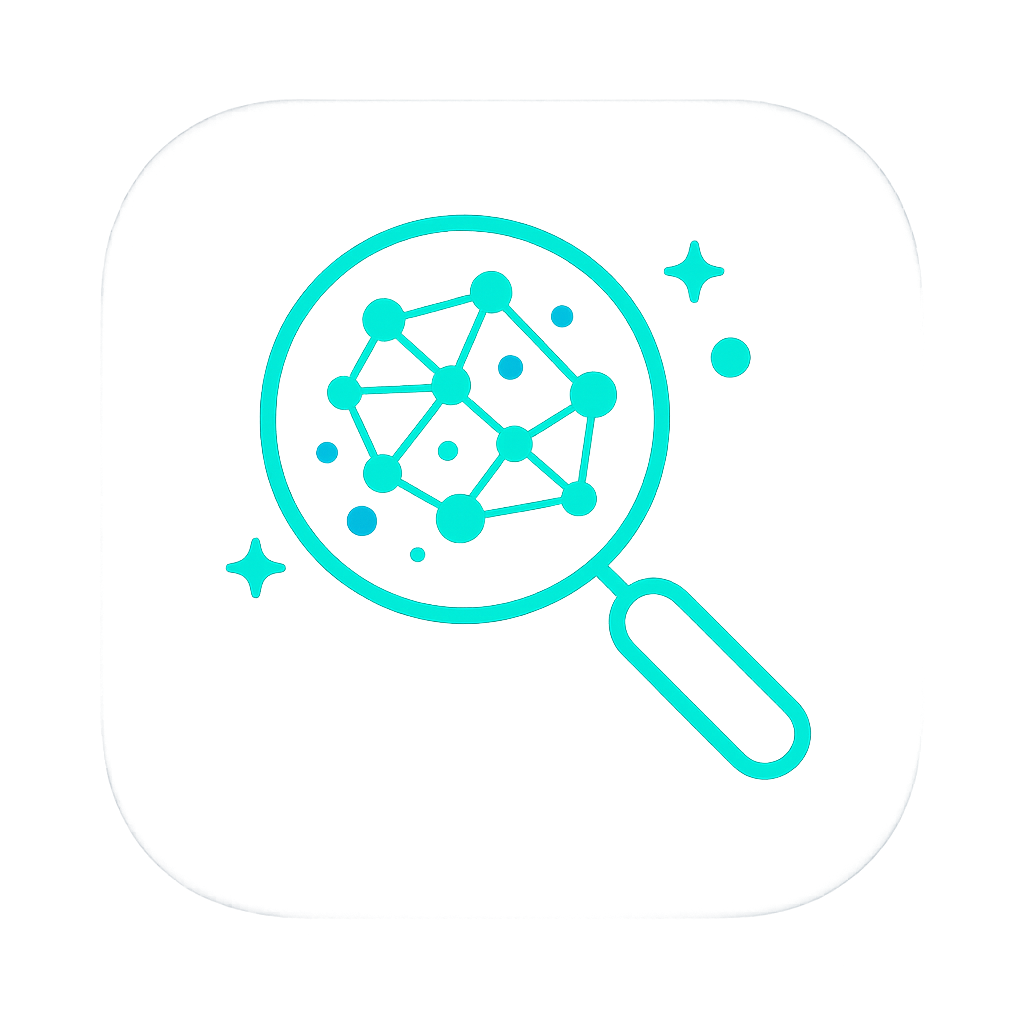
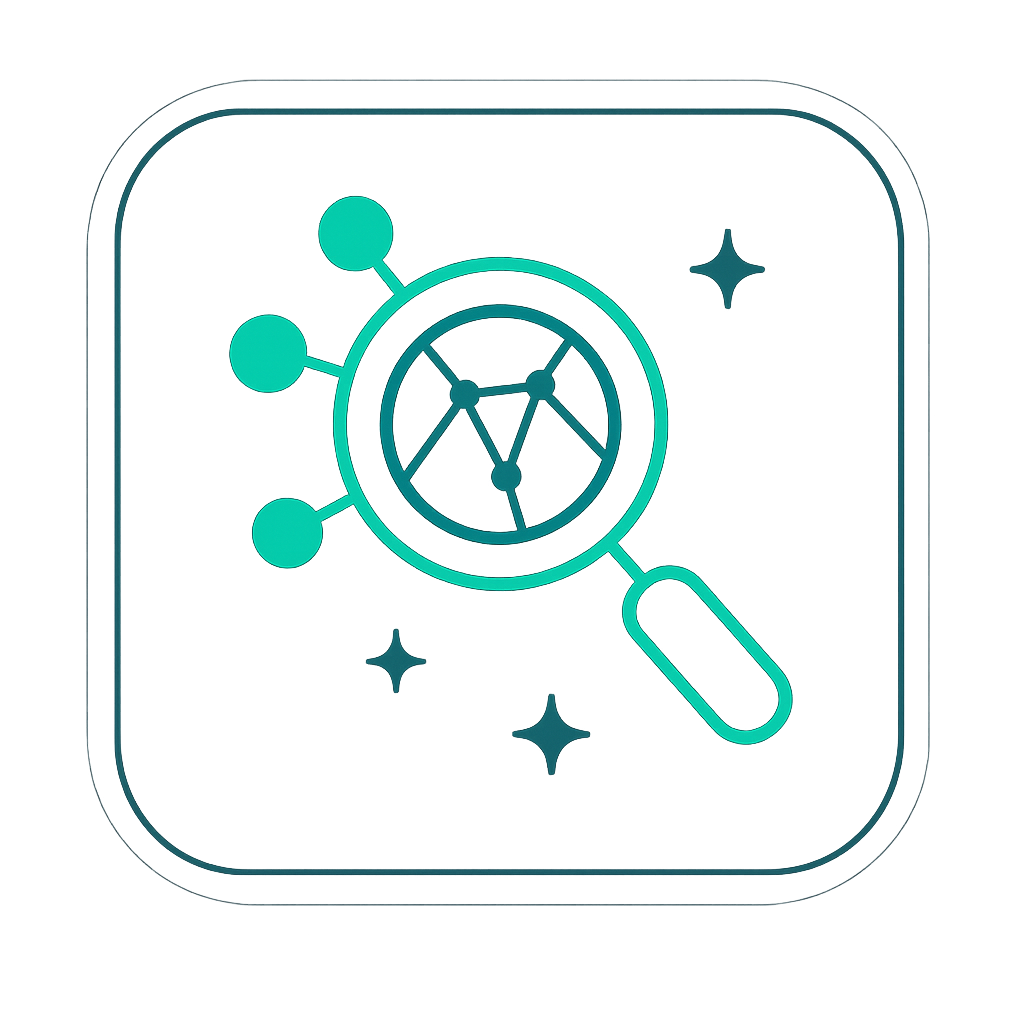
Rebuild brand mark from the canonical reference design
The previous marks kept missing the actual design. Rebuilt from the user's
reference masters:

THE CANONICAL DESIGN (now implemented everywhere)
- Double-orbit lens: thin emerald outer ring + thin navy inner ring with a
  rotation gap (two orbits, not one circle)
- Inner mesh: a few small nodes connected by thin lines INSIDE the lens
- Outrider nodes: BIG bright-green nodes OUTSIDE the lens on short stems
  radiating from it (the feature I kept missing)
- Hollow elongated capsule handle with a BIG node at its tip
- Four-point sparkles + dust around the constellation
- Two-tone: emerald #10d48e + navy #0b3d91/#3f7bdc on night navy #070b1a

ASSETS
- brand/icon.svg + brand/logo.svg: full organic constellation masters
- favicon.svg + LogoMark.tsx: same design language, size-tuned (fewer,
  bigger nodes) so it reads at 24–32px; LogoMark still follows the accent
- og.jpg + brand/icon-1024.png: regenerated with the canonical spec

Blossom: icon 60998826…, logo ea4b3532… (ditto.pub)

diff --git a/src/components/LogoMark.tsx b/src/components/LogoMark.tsx
@@ -3,13 +3,15 @@ import { cn } from '@/lib/utils';
 /**
  * Dsearch logo mark — the constellation magnifier, inline SVG.
  *
- * Hand-tuned for small sizes (24–64px): the organic mesh is simplified to a
- * bold, well-spaced web of nodes drawn in `currentColor` (= --primary = the
- * user's accent), the deep node accents in dimmed currentColor, so the mark
- * follows the accent picker and theme. The night-navy tile stays constant.
+ * Design language (matches public/brand/icon.svg): a magnifying glass whose
+ * double-orbit lens holds a node mesh, with outrider nodes on stems, a hollow
+ * outlined handle, and a node at its tip. Everything draws in `currentColor`
+ * (= --primary = the user's accent), deep accents in dimmed currentColor, so
+ * the mark follows the accent picker and theme. The night-navy tile stays
+ * constant across themes.
  *
- * Matches public/brand/icon.svg in design language; static files carry the
- * full organic constellation.
+ * Tuned for 24–64px: fewer, bigger nodes than the static masters, which carry
+ * the full organic constellation.
  */
 export function LogoMark({ className }: { className?: string }) {
   return (
@@ -21,38 +23,52 @@ export function LogoMark({ className }: { className?: string }) {
     >
       {/* Icon tile: night-navy rounded square (constant across themes) */}
       <rect width="32" height="32" rx="8" fill="#070b1a" />
-      <rect x="1" y="1" width="30" height="30" rx="7" stroke="currentColor" strokeOpacity="0.35" strokeWidth="0.5" />
+      <rect x="1" y="1" width="30" height="30" rx="7" stroke="currentColor" strokeOpacity="0.3" strokeWidth="0.5" />
 
-      {/* The index inside the lens: an organic node web (bold, readable) */}
-      <g stroke="currentColor" strokeOpacity="0.55" strokeWidth="0.6">
-        <line x1="12.6" y1="12.6" x2="8.4" y2="10.6" />
-        <line x1="12.6" y1="12.6" x2="16.6" y2="9" />
-        <line x1="12.6" y1="12.6" x2="17" y2="15.2" />
-        <line x1="12.6" y1="12.6" x2="9.2" y2="16.4" />
-        <line x1="12.6" y1="12.6" x2="14.4" y2="17.2" />
-        <line x1="8.4" y1="10.6" x2="16.6" y2="9" />
-        <line x1="16.6" y1="9" x2="17" y2="15.2" />
-        <line x1="17" y1="15.2" x2="14.4" y2="17.2" />
-        <line x1="9.2" y1="16.4" x2="14.4" y2="17.2" />
-        <line x1="8.4" y1="10.6" x2="9.2" y2="16.4" />
+      {/* Orbit rings: outer solid, inner dashed with a gap */}
+      <circle cx="13" cy="13" r="8.1" stroke="currentColor" strokeOpacity="0.85" strokeWidth="1.1" />
+      <circle cx="13" cy="13" r="6.5" stroke="currentColor" strokeOpacity="0.55" strokeWidth="0.7" strokeDasharray="29 12" strokeLinecap="round" transform="rotate(110 13 13)" />
+
+      {/* Outrider stems */}
+      <g stroke="currentColor" strokeOpacity="0.5" strokeWidth="0.55">
+        <line x1="10.2" y1="9.8" x2="7.2" y2="6.8" />
+        <line x1="15.8" y1="9.8" x2="18.8" y2="6.8" />
+        <line x1="9.2" y1="16.6" x2="6.4" y2="19.4" />
       </g>
-      {/* nodes: varying sizes, two-tone (accent + dimmed accent) */}
-      <circle cx="12.6" cy="12.6" r="1.2" fill="currentColor" />
-      <circle cx="8.4" cy="10.6" r="1.35" fill="currentColor" />
-      <circle cx="16.6" cy="9" r="1" fill="currentColor" fillOpacity="0.5" />
-      <circle cx="17" cy="15.2" r="0.9" fill="currentColor" />
-      <circle cx="9.2" cy="16.4" r="1.05" fill="currentColor" fillOpacity="0.5" />
-      <circle cx="14.4" cy="17.2" r="0.8" fill="currentColor" />
-      {/* outrider + sparkles */}
-      <circle cx="19.4" cy="6.6" r="0.85" fill="currentColor" fillOpacity="0.5" />
-      <path d="M7 6.2 l0.5 1.1 1.1 0.5 -1.1 0.5 -0.5 1.1 -0.5 -1.1 -1.1 -0.5 1.1 -0.5 z" fill="currentColor" fillOpacity="0.6" />
 
-      {/* Magnifying glass: lens ring + inner orbit + hollow handle with tip node */}
-      <circle cx="12.6" cy="12.6" r="6.9" stroke="currentColor" strokeWidth="1.7" />
-      <circle cx="12.6" cy="12.6" r="5.5" stroke="currentColor" strokeOpacity="0.35" strokeWidth="0.5" />
-      <line x1="17.7" y1="17.7" x2="19" y2="19" stroke="currentColor" strokeWidth="1.9" strokeLinecap="round" />
-      <rect x="18.5" y="21.2" width="2.5" height="6.6" rx="1.25" transform="rotate(-45 19.75 24.5)" stroke="currentColor" strokeWidth="1.1" />
-      <circle cx="24.3" cy="24.3" r="1.4" fill="currentColor" />
+      {/* Inner mesh */}
+      <g stroke="currentColor" strokeOpacity="0.6" strokeWidth="0.55">
+        <line x1="13" y1="13" x2="10.2" y2="9.8" />
+        <line x1="13" y1="13" x2="15.8" y2="9.8" />
+        <line x1="13" y1="13" x2="10.6" y2="16.2" />
+        <line x1="13" y1="13" x2="15.6" y2="16" />
+        <line x1="10.2" y1="9.8" x2="15.8" y2="9.8" />
+        <line x1="10.6" y1="16.2" x2="15.6" y2="16" />
+      </g>
+
+      {/* Inner nodes */}
+      <circle cx="13" cy="13" r="1.15" fill="currentColor" />
+      <circle cx="10.2" cy="9.8" r="0.8" fill="currentColor" />
+      <circle cx="15.8" cy="9.8" r="0.75" fill="currentColor" fillOpacity="0.5" />
+      <circle cx="10.6" cy="16.2" r="0.75" fill="currentColor" />
+      <circle cx="15.6" cy="16" r="0.85" fill="currentColor" fillOpacity="0.5" />
+
+      {/* Outrider nodes */}
+      <circle cx="7.2" cy="6.8" r="1.35" fill="currentColor" />
+      <circle cx="18.8" cy="6.8" r="1.35" fill="currentColor" />
+      <circle cx="6.4" cy="19.4" r="1.35" fill="currentColor" />
+      <circle cx="22.6" cy="11.8" r="0.8" fill="currentColor" />
+      <circle cx="4.6" cy="12.8" r="0.7" fill="currentColor" fillOpacity="0.5" />
+      <circle cx="16.6" cy="3.6" r="0.75" fill="currentColor" />
+
+      {/* Sparkle + dust */}
+      <path d="M25.2 3.4 l0.55 1.3 1.3 0.55 -1.3 0.55 -0.55 1.3 -0.55 -1.3 -1.3 -0.55 1.3 -0.55 z" fill="currentColor" fillOpacity="0.65" />
+      <circle cx="27" cy="15" r="0.5" fill="currentColor" fillOpacity="0.5" />
+
+      {/* Handle: stub + hollow capsule + tip node */}
+      <line x1="18.7" y1="18.7" x2="19.9" y2="19.9" stroke="currentColor" strokeWidth="1.7" strokeLinecap="round" />
+      <rect x="19.2" y="22.3" width="2.3" height="6.2" rx="1.15" transform="rotate(-45 20.35 25.4)" stroke="currentColor" strokeWidth="1.1" />
+      <circle cx="23.9" cy="23.9" r="1.5" fill="currentColor" />
     </svg>
   );
 }
